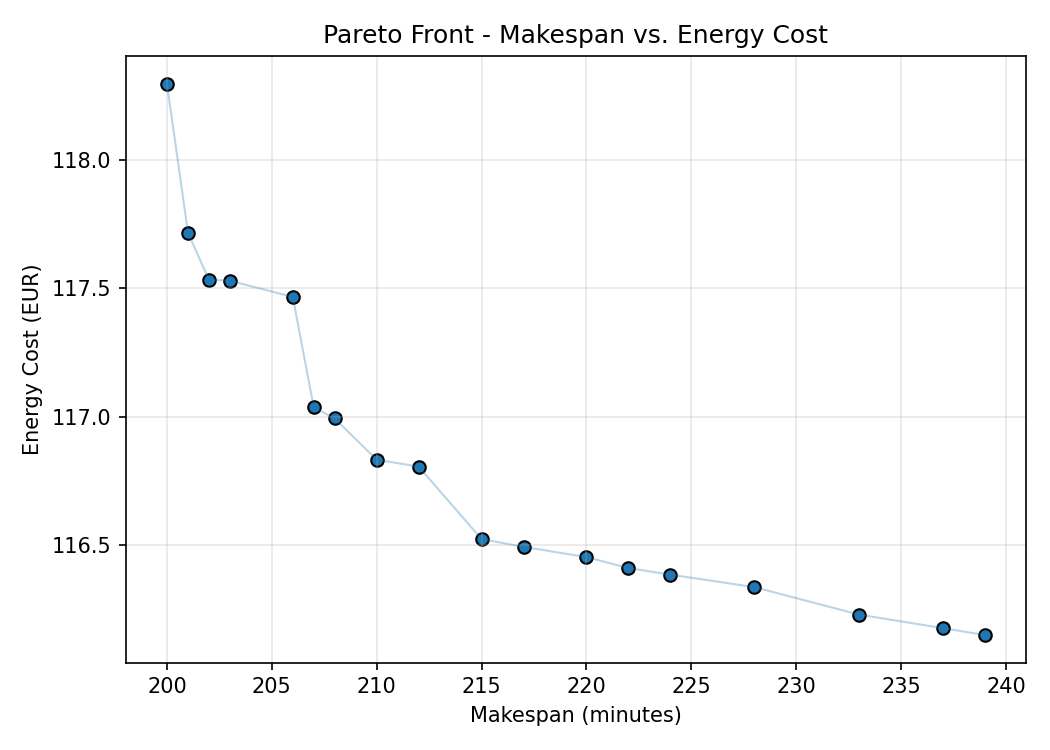
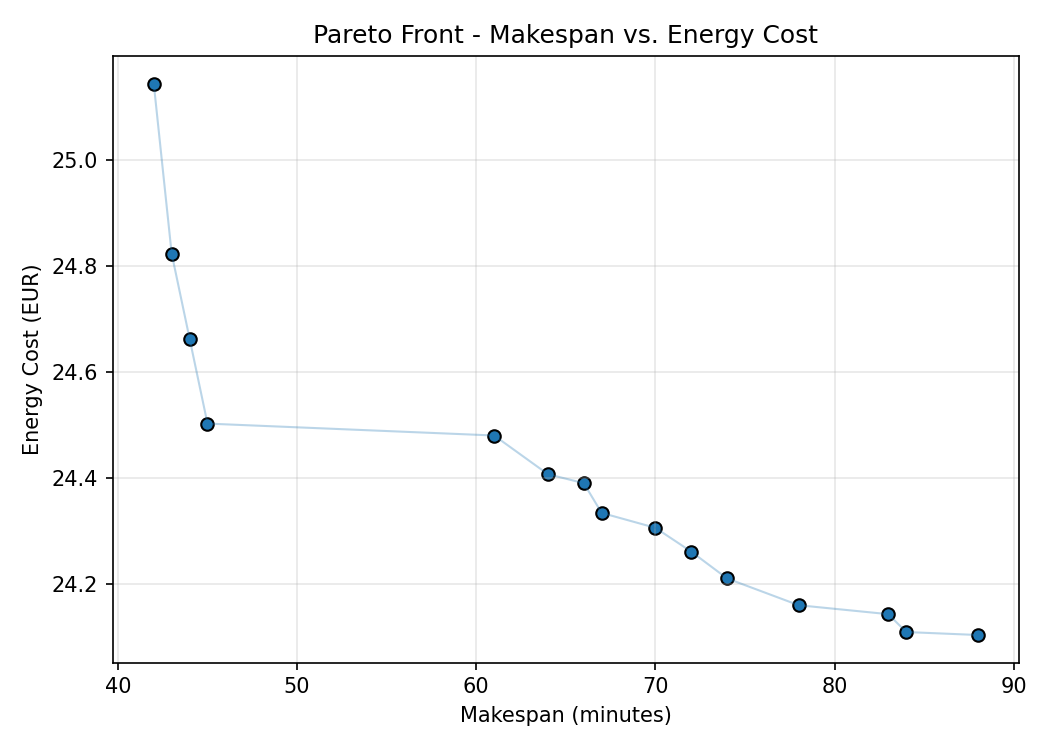
Update Energy-Aware FJSP project page: real Brandimarte benchmark results

diff --git a/content/project/Energy_Aware_FJSP_NSGA2/index.md b/content/project/Energy_Aware_FJSP_NSGA2/index.md
@@ -45,24 +45,25 @@ The scheduler is a **memetic NSGA-II**: the multi-objective genetic
 algorithm NSGA-II (Deb et al., 2002), augmented with a greedy local-search
 refinement applied to every offspring each generation — alternating
 between machine re-assignment and operation-sequencing moves, keeping any
-move that Pareto-dominates the current solution. This project is a
-compact, independently implemented demonstration of the approach described
-in Burmeister, Guericke, and Schryen (2024), *Flexible Services and
-Manufacturing Journal* — see the
+move that Pareto-dominates the current solution. The scheduler solves real
+Brandimarte (1993) FJSP benchmark instances (`mk01`–`mk10`, parsed from the
+standard Hurink `.fjs` format) rather than synthetic problem instances.
+This project is a compact, independently implemented demonstration of the
+approach described in Burmeister, Guericke, and Schryen (2024), *Flexible
+Services and Manufacturing Journal* — see the
 [GitHub README](https://github.com/Olorunnisola01/energy-aware-fjsp-nsga2#readme)
 for the full citation list and an explicit account of what is simplified
-relative to that paper (random instances rather than the Brandimarte
-benchmark suite, no exact-solver comparison, a simplified local-search
-operator).
+relative to that paper (10 of the paper's 15 benchmark instances, no
+exact-solver comparison, a simplified local-search operator).
 
 #### Results
 
-Running the algorithm for 800 generations on a 15-job/4-machine instance
-converges to an 18-point Pareto front trading off a 200-minute
-minimum-makespan schedule (higher energy cost) against a 239-minute
-schedule at the lowest energy cost found — a genuine, non-trivial
-trade-off surfaced directly from real price data rather than an assumed
-energy rate.
+Running the algorithm for 800 generations on the `mk01` benchmark instance
+(10 jobs, 6 machines, 55 operations) converges to a 15-point Pareto front
+trading off a 42-minute minimum-makespan schedule (higher energy cost)
+against an 88-minute schedule at the lowest energy cost found — a genuine,
+non-trivial trade-off surfaced directly from real price data rather than
+an assumed energy rate.
 
 See the [GitHub repository](https://github.com/Olorunnisola01/energy-aware-fjsp-nsga2)
 for the full implementation, convergence plots, and the resulting Gantt
